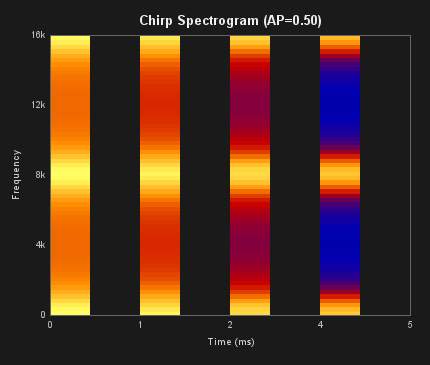
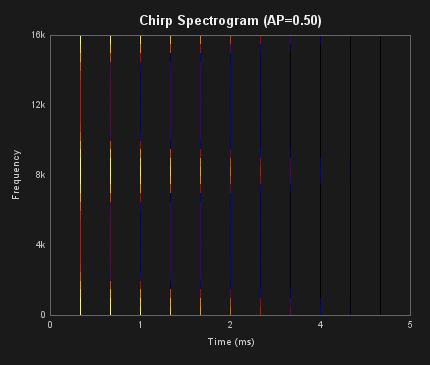
Update chirp docs: rename, spring remark, higher-res spectrograms, sine/square closeups
Rename "Chirp Reverb" to "Chirp", add spring reverb emulation remark,
increase spectrogram time resolution to 0.25 ms, and add 10-cycle
sine/square waveform closeups at resonance frequencies for AP=+/-0.65.

diff --git a/src/test/java/com/holycityaudio/SpinCAD/ChirpDelayDocTest.java b/src/test/java/com/holycityaudio/SpinCAD/ChirpDelayDocTest.java
@@ -67,6 +67,13 @@ public class ChirpDelayDocTest {
             }
         }
 
+        // Sine/square closeups at the lowest resonance frequency for each AP.
+        // Stretch=20 gives the lowest resonance for a given AP sign.
+        for (double ap : apCoeffs) {
+            System.out.printf("%n=== Waveform closeups: stretch=20, AP=%.2f ===%n", ap);
+            plotWaveformCloseups(docsDir, 20, ap);
+        }
+
         System.out.println("\nAll chirp delay PNGs written to docs/images/");
     }
 
@@ -249,6 +256,133 @@ public class ChirpDelayDocTest {
         }
 
         File wavFile = File.createTempFile("spincad_fadedburst_", ".wav");
+        wavFile.deleteOnExit();
+        AudioFormat format = new AudioFormat(SAMPLE_RATE, 16, 2, true, false);
+        ByteArrayInputStream bais = new ByteArrayInputStream(data);
+        AudioInputStream ais = new AudioInputStream(bais, format, numFrames);
+        AudioSystem.write(ais, AudioFileFormat.Type.WAVE, wavFile);
+        ais.close();
+        return wavFile;
+    }
+
+    /**
+     * Plot 10-cycle closeup of sine and square waves processed through
+     * the chirp block at the resonance frequency.  Shows stacked
+     * input/output for each waveform type.
+     */
+    private void plotWaveformCloseups(File docsDir, int stretch, double apCoeff)
+            throws Exception {
+        // Measure resonance frequency the same way as testChirpConfig
+        ChirpCADBlock probe = new ChirpCADBlock(100, 100);
+        probe.setnAPs(N_STAGES);
+        probe.setstretch(stretch);
+        probe.setkiap(apCoeff);
+
+        File impulseWav = generateImpulseWav(SIM_DURATION, IMPULSE_AMP);
+        short[] stereo = simulate(probe, impulseWav, null, "Output", null, tempDir);
+        if (stereo == null) { System.err.println("  SKIP closeups: probe failed"); return; }
+
+        double[] audio = toDouble(extractChannel(stereo, 0));
+        int gdFftSize = 8192;
+        double[] gd = computeGroupDelay(audio, gdFftSize);
+        int gdBins = gdFftSize / 2;
+        int minBin = Math.max(1,
+            (int)((double) SAMPLE_RATE / (4.0 * stretch) * gdFftSize / SAMPLE_RATE));
+        double maxGd = 0;
+        for (int b = minBin; b < gdBins; b++)
+            if (gd[b] > maxGd) maxGd = gd[b];
+        int peakBin = minBin;
+        for (int b = minBin + 1; b < gdBins - 1; b++) {
+            if (gd[b] >= gd[b - 1] && gd[b] >= gd[b + 1] && gd[b] >= maxGd * 0.5) {
+                peakBin = b;
+                maxGd = gd[b];
+                break;
+            }
+        }
+        double freqHz = (double) peakBin * SAMPLE_RATE / gdFftSize;
+        double groupDelayMs = 1000.0 * maxGd / SAMPLE_RATE;
+
+        System.out.printf("  Resonance: %.0f Hz, group delay %.1f ms%n",
+            freqHz, groupDelayMs);
+
+        // 10-cycle display window
+        double cycleDuration = 1.0 / freqHz;
+        int displaySamples = (int)(10 * cycleDuration * SAMPLE_RATE);
+        // Skip past the group delay so we see steady-state output
+        int skipSamples = (int)((groupDelayMs / 1000.0 + 0.050) * SAMPLE_RATE);
+
+        String tag = String.format("s%d_ap%s", stretch, fmtCoeff(apCoeff));
+
+        // --- Sine wave ---
+        File sineWav = generateSineWav(SIM_DURATION, freqHz, BURST_AMP);
+        ChirpCADBlock sineBlock = new ChirpCADBlock(100, 100);
+        sineBlock.setnAPs(N_STAGES);
+        sineBlock.setstretch(stretch);
+        sineBlock.setkiap(apCoeff);
+
+        short[] sineStereo = simulate(sineBlock, sineWav, null, "Output", null, tempDir);
+        if (sineStereo == null) { System.err.println("  SKIP sine closeup"); return; }
+
+        double[] sineOut = toDouble(extractChannel(sineStereo, 0));
+        double[] sineIn = toDouble(extractChannel(readWavSamples(sineWav), 0));
+
+        int start = Math.min(skipSamples, sineOut.length - displaySamples - 1);
+        int end = Math.min(start + displaySamples, Math.min(sineOut.length, sineIn.length));
+        double[] sineInSlice = Arrays.copyOfRange(sineIn, start, end);
+        double[] sineOutSlice = Arrays.copyOfRange(sineOut, start, end);
+        double[] timeMs = new double[end - start];
+        for (int i = 0; i < timeMs.length; i++) timeMs[i] = 1000.0 * i / SAMPLE_RATE;
+
+        File sineFile = new File(docsDir, "chirp-delay-sine-" + tag + ".png");
+        writeStackedWaveformPlot(sineFile,
+            String.format("Sine %.0f Hz (stretch=%d, AP=%.2f)", freqHz, stretch, apCoeff),
+            timeMs, sineInSlice, sineOutSlice,
+            String.format("Input (%.0f Hz)", freqHz), "Output");
+        System.out.println("  wrote " + sineFile.getName());
+
+        // --- Square wave ---
+        File squareWav = generateSquareWav(SIM_DURATION, freqHz, BURST_AMP);
+        ChirpCADBlock sqBlock = new ChirpCADBlock(100, 100);
+        sqBlock.setnAPs(N_STAGES);
+        sqBlock.setstretch(stretch);
+        sqBlock.setkiap(apCoeff);
+
+        short[] sqStereo = simulate(sqBlock, squareWav, null, "Output", null, tempDir);
+        if (sqStereo == null) { System.err.println("  SKIP square closeup"); return; }
+
+        double[] sqOut = toDouble(extractChannel(sqStereo, 0));
+        double[] sqIn = toDouble(extractChannel(readWavSamples(squareWav), 0));
+
+        start = Math.min(skipSamples, sqOut.length - displaySamples - 1);
+        end = Math.min(start + displaySamples, Math.min(sqOut.length, sqIn.length));
+        double[] sqInSlice = Arrays.copyOfRange(sqIn, start, end);
+        double[] sqOutSlice = Arrays.copyOfRange(sqOut, start, end);
+        timeMs = new double[end - start];
+        for (int i = 0; i < timeMs.length; i++) timeMs[i] = 1000.0 * i / SAMPLE_RATE;
+
+        File sqFile = new File(docsDir, "chirp-delay-square-" + tag + ".png");
+        writeStackedWaveformPlot(sqFile,
+            String.format("Square %.0f Hz (stretch=%d, AP=%.2f)", freqHz, stretch, apCoeff),
+            timeMs, sqInSlice, sqOutSlice,
+            String.format("Input (%.0f Hz)", freqHz), "Output");
+        System.out.println("  wrote " + sqFile.getName());
+    }
+
+    /** Generate a stereo square wave WAV. */
+    private File generateSquareWav(double durationSeconds, double freqHz,
+            double amplitude) throws IOException {
+        int numFrames = (int)(SAMPLE_RATE * durationSeconds);
+        byte[] data = new byte[numFrames * 4];
+        for (int i = 0; i < numFrames; i++) {
+            double phase = (freqHz * i / SAMPLE_RATE) % 1.0;
+            short sample = (short)(amplitude * Short.MAX_VALUE * (phase < 0.5 ? 1.0 : -1.0));
+            int offset = i * 4;
+            data[offset] = (byte)(sample & 0xff);
+            data[offset + 1] = (byte)((sample >> 8) & 0xff);
+            data[offset + 2] = (byte)(sample & 0xff);
+            data[offset + 3] = (byte)((sample >> 8) & 0xff);
+        }
+        File wavFile = File.createTempFile("spincad_square_", ".wav");
         wavFile.deleteOnExit();
         AudioFormat format = new AudioFormat(SAMPLE_RATE, 16, 2, true, false);
         ByteArrayInputStream bais = new ByteArrayInputStream(data);

diff --git a/src/test/java/com/holycityaudio/SpinCAD/ReverbDocTest.java b/src/test/java/com/holycityaudio/SpinCAD/ReverbDocTest.java
@@ -341,12 +341,13 @@ public class ReverbDocTest {
                 new String[]{COLORS[0]});
             System.out.println("  wrote reverb-chirp-" + suffix + ".png");
 
-            // Spectrogram
+            // Spectrogram — fftSize=64, hopSize=8 (~0.25 ms hop) for better
+            // time resolution on the 5 ms window (12 frames vs 4 with fftSize=128)
             int specLen = Math.min(audio.length, samples5ms);
             writeSpectrogram(
                 new File(docsDir, "reverb-chirp-spec-" + suffix + ".png"),
                 String.format("Chirp Spectrogram (AP=%.2f)", apCoeffs[a]),
-                audio, specLen, SAMPLE_RATE);
+                audio, specLen, SAMPLE_RATE, 64, 8);
             System.out.println("  wrote reverb-chirp-spec-" + suffix + ".png");
         }
     }
@@ -390,8 +391,12 @@ public class ReverbDocTest {
      */
     private void writeSpectrogram(File file, String title,
             double[] audio, int totalSamples, int sampleRate) throws IOException {
-        int fftSize = 128;  // doubled from 64 for 2x frequency resolution
-        int hopSize = 8;    // ~0.25ms hop for smooth display
+        writeSpectrogram(file, title, audio, totalSamples, sampleRate, 128, 8);
+    }
+
+    private void writeSpectrogram(File file, String title,
+            double[] audio, int totalSamples, int sampleRate,
+            int fftSize, int hopSize) throws IOException {
         int numFrames = (totalSamples - fftSize) / hopSize;
         if (numFrames < 1) return;
 

diff --git a/docs/reverb-blocks.md b/docs/reverb-blocks.md
@@ -91,7 +91,7 @@ a long reverb tail.
 
 ---
 
-## Chirp Reverb
+## Chirp
 
 A cascade of up to 30 identical allpass filters, each with a delay of
 *stretch* samples. The allpass coefficient (which can be negative)
@@ -99,6 +99,13 @@ controls how much different frequencies are delayed relative to each
 other. The result is a dispersive impulse response where energy at the
 resonance frequency arrives much later than at other frequencies — the
 characteristic "chirp" sound of spring reverbs and metallic resonators.
+
+Long chains of allpass filters are commonly found in spring reverb
+emulations, where they model the frequency-dependent propagation
+velocity of the spring coil. The FV-1's 128-instruction limit
+constrains the chain to about 30 stages (60 instructions for
+RDA/WRAP pairs), which is not enough for a convincing spring
+emulation but is sufficient to demonstrate the dispersive effect.
 
 | Pin | Type | Description |
 |-----|------|-------------|
@@ -198,6 +205,24 @@ onset is shifted by the measured group delay relative to the input.
 
 ![Tone burst stretch=20 AP=+0.65](images/chirp-delay-burst-s20_appos065.png)
 ![Tone burst stretch=20 AP=-0.65](images/chirp-delay-burst-s20_apneg065.png)
+
+### Waveform closeups
+
+Ten-cycle closeups of sine and square waves at the lowest resonance
+frequency (stretch = 20) show how the allpass cascade disperses
+harmonics. The sine wave passes through with only a gain change, while
+the square wave's harmonics are spread in time, producing a visible
+chirp-like smearing of the sharp edges.
+
+**AP = +0.65 (resonance at 1640 Hz):**
+
+![Sine closeup AP=+0.65](images/chirp-delay-sine-s20_appos065.png)
+![Square closeup AP=+0.65](images/chirp-delay-square-s20_appos065.png)
+
+**AP = −0.65 (resonance at 820 Hz):**
+
+![Sine closeup AP=-0.65](images/chirp-delay-sine-s20_apneg065.png)
+![Square closeup AP=-0.65](images/chirp-delay-square-s20_apneg065.png)
 
 ---
 
